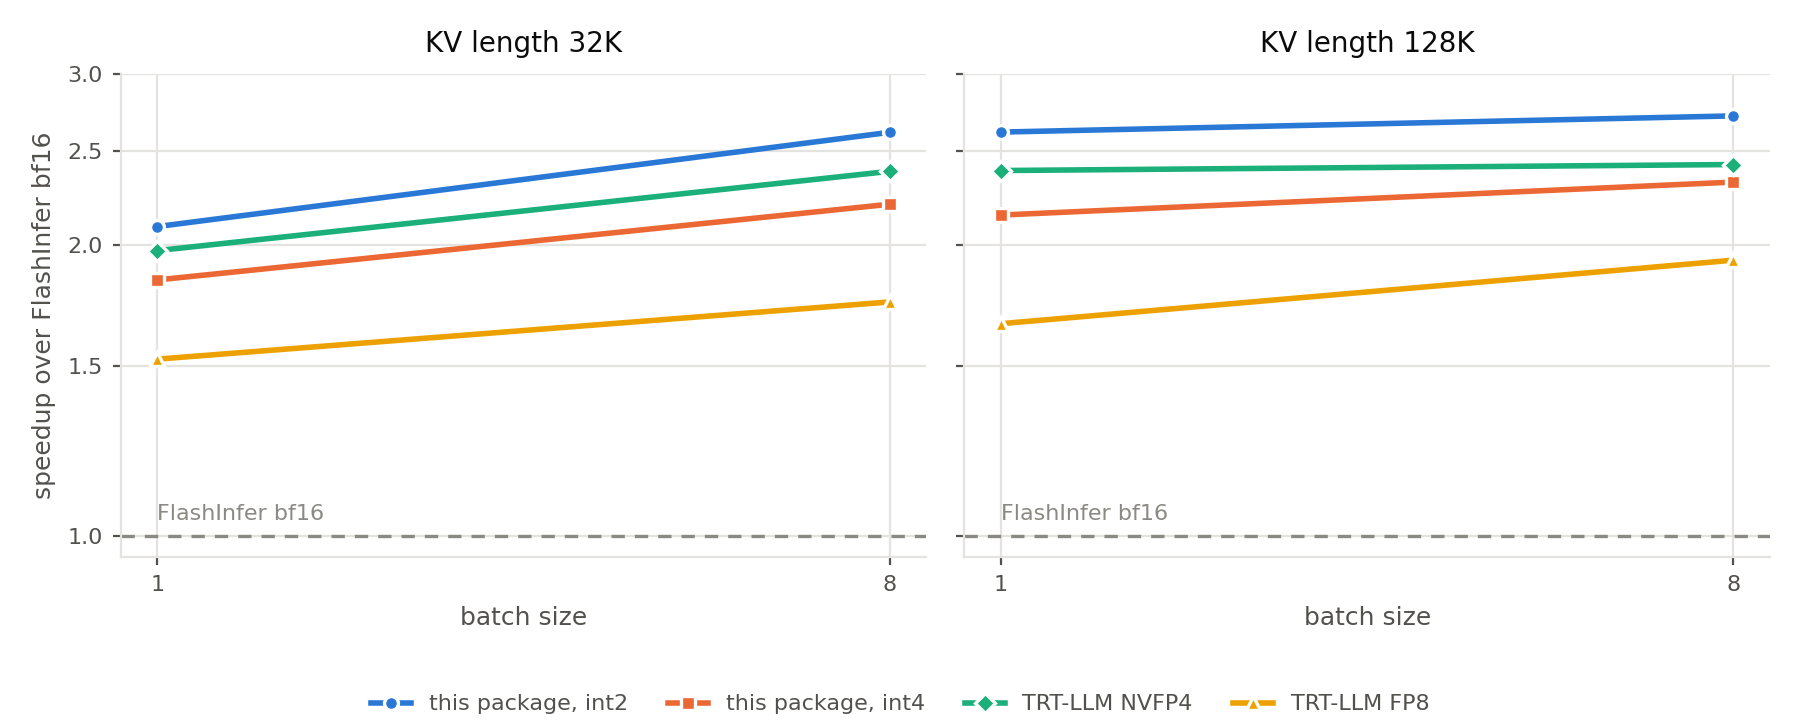
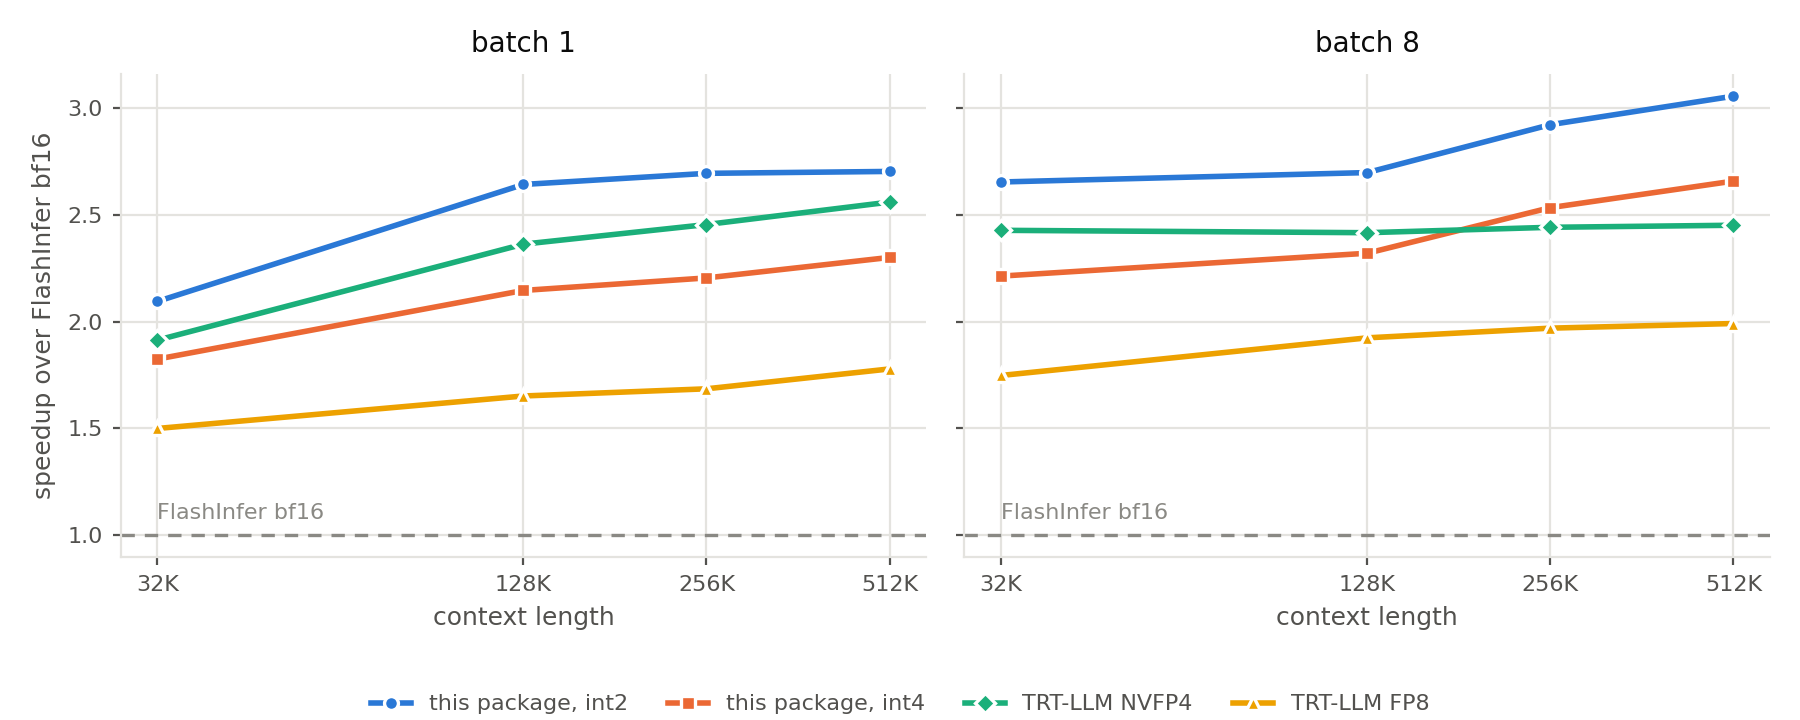
Benchmark at 32K-512K, panel per batch, and a terser README
The grid is batch 1 and 8 at 32K, 128K, 256K and 512K. The figure has one panel
per batch with context on the x axis, plotting speedup over FlashInfer bf16; the
table carries the latencies. The bits-per-value table and the argument around it
are gone: the numbers are the numbers.

pytest now runs the whole suite by default rather than deselecting the device
tests, since the audience for a kernel package has the device.

diff --git a/benchmarks/plot_decode.py b/benchmarks/plot_decode.py
@@ -1,9 +1,9 @@
-"""Render the decode-latency figure from `decode_latency.csv`.
+"""Render the decode-speedup figure from `decode_latency.csv`.
 
-Two panels, one per KV length, with batch on a log axis. The y axis is the
-speedup over FlashInfer bf16 at the same shape, which is bf16's latency divided by
-the kernel's, so the dashed line at 1.00 is bf16 and higher is better. The
-absolute latencies are in the README table.
+Two panels, one per batch size, with context length on a log axis. The y axis is
+the speedup over FlashInfer bf16 at the same shape, which is bf16's latency
+divided by the kernel's, so the dashed line at 1.00 is bf16 and higher is better.
+The latencies themselves are in the README table.
 
 Run from the repository root:
 
@@ -49,33 +49,32 @@ def us(kernel, batch, kv):
 fig, axes = plt.subplots(1, 2, figsize=(9.0, 3.6), sharey=True)
 fig.patch.set_facecolor("#ffffff")
 
-for ax, kv in zip(axes, kv_lens):
+for ax, batch in zip(axes, batches):
     ax.set_facecolor("#ffffff")
     for key, label, color, marker in SERIES:
         xs, ys = [], []
-        for b in batches:
-            base = us(BASE, b, kv)
-            val = us(key, b, kv)
+        for kv in kv_lens:
+            base = us(BASE, batch, kv)
+            val = us(key, batch, kv)
             if base and val:
-                xs.append(b)
+                xs.append(kv)
                 ys.append(base / val)
         ax.plot(xs, ys, color=color, linewidth=2, marker=marker, markersize=5,
                 markeredgecolor="#ffffff", markeredgewidth=1.2, label=label,
                 zorder=3)
 
     ax.axhline(1.0, color=REF, linewidth=1.2, linestyle=(0, (4, 3)), zorder=2)
-    ax.annotate("FlashInfer bf16", xy=(batches[0], 1.0), xytext=(0, 6),
+    ax.annotate("FlashInfer bf16", xy=(kv_lens[0], 1.0), xytext=(0, 6),
                 textcoords="offset points", color=REF, fontsize=8, zorder=4)
 
     ax.set_xscale("log", base=2)
-    ax.set_yscale("log")
-    ax.set_xticks(batches)
-    ax.set_xticklabels([str(b) for b in batches])
+    ax.set_xticks(kv_lens)
+    ax.set_xticklabels([f"{kv // 1024}K" for kv in kv_lens])
     ax.set_yticks([1.0, 1.5, 2.0, 2.5, 3.0])
     ax.set_yticklabels(["1.0", "1.5", "2.0", "2.5", "3.0"])
     ax.minorticks_off()
-    ax.set_xlabel("batch size", color=INK_2, fontsize=9)
-    ax.set_title(f"KV length {kv // 1024}K", color=INK, fontsize=10, pad=8)
+    ax.set_xlabel("context length", color=INK_2, fontsize=9)
+    ax.set_title(f"batch {batch}", color=INK, fontsize=10, pad=8)
     ax.grid(True, which="major", color=GRID, linewidth=0.8, zorder=0)
     for side in ("top", "right"):
         ax.spines[side].set_visible(False)

diff --git a/README.md b/README.md
@@ -150,78 +150,42 @@ same Q dtype.
 
 ## Benchmarks
 
-Decode latency on one NVIDIA B200 at long context, against FlashInfer and
-TensorRT-LLM's `trtllm-gen` decode kernels. The figure plots the speedup over
-FlashInfer bf16 at the same shape, which is bf16's latency divided by the
-kernel's, so the dashed line at 1.00 is bf16 and higher is better. The table
-gives the latency itself, in microseconds.
+Decode latency in microseconds on one NVIDIA B200. The figure plots the speedup
+over FlashInfer bf16 at the same shape, so the dashed line at 1.00 is bf16.
 
-![Decode speedup over FlashInfer bf16, against batch size at KV lengths 32K and 128K](docs/decode-latency.png)
+![Decode speedup over FlashInfer bf16, against context length at batch 1 and 8](docs/decode-latency.png)
 
-| Batch | KV len | int2 | int4 | FlashInfer bf16 | TRT-LLM FP8 | TRT-LLM NVFP4 |
+| Batch | Context | int2 | int4 | FlashInfer bf16 | TRT-LLM FP8 | TRT-LLM NVFP4 |
 |---:|---:|---:|---:|---:|---:|---:|
-| 1 | 32K | **17.0** | 19.3 | 35.5 | 23.3 | 18.0 |
-| 1 | 128K | **37.6** | 45.8 | 98.3 | 59.3 | 41.2 |
-| 8 | 32K | **63.8** | 75.7 | 166.7 | 95.5 | 70.0 |
-| 8 | 128K | **219.4** | 256.8 | 596.1 | 309.2 | 246.3 |
-
-What the columns store per cached value, including the scale and offset:
-
-| | int2 | int4 | NVFP4 | FP8 | bf16 |
-|---|---:|---:|---:|---:|---:|
-| bits per value | 2.5 | 4.5 | 4.5 | 8 | 16 |
-
-Two things follow from that table and are worth stating plainly.
-
-The 2-bit kernel is 2.09 to 2.72 times faster than bf16, which stores 6.4 times
-as many bits per value. Against NVFP4, which stores 1.8 times as many, it is 1.06
-to 1.12 times faster: at these lengths the traffic saving does reach the latency,
-but most of it is still absorbed by dequantization and the on-chip work.
-
-At 4 bits, where this package and NVFP4 store the same number of bits per value,
-TRT-LLM is faster at every shape. The 2-bit setting is where this kernel wins,
-and the gap widens with context length.
+| 1 | 32K | **16.9** | 19.4 | 35.4 | 23.6 | 18.5 |
+| 1 | 128K | **37.2** | 45.8 | 98.3 | 59.5 | 41.6 |
+| 1 | 256K | **63.5** | 77.6 | 171.1 | 101.5 | 69.7 |
+| 1 | 512K | **116.0** | 136.3 | 313.6 | 176.3 | 122.5 |
+| 8 | 32K | **63.3** | 75.9 | 168.0 | 96.1 | 69.2 |
+| 8 | 128K | **220.6** | 256.5 | 595.2 | 309.3 | 246.3 |
+| 8 | 256K | **400.5** | 461.9 | 1170.4 | 594.2 | 479.3 |
+| 8 | 512K | **760.3** | 874.0 | 2323.3 | 1166.7 | 947.7 |
 
 Measurement conditions: one query token per request, 32 query heads over 8 KV
 heads, `head_dim` 128, page size 64, paged cache, fp8 Q for this package and for
-TRT-LLM, bf16 for FlashInfer. All five columns were measured on the same B200
-card on 2026-10-29, in one session, through one timing function. The reported
-number is the CUDA kernel span from CUPTI, over a cold L2, as the median of the
-fully observed iterations. It excludes host dispatch and the paged-attention
-wrapper around the kernel, so it is not an end-to-end serving latency.
+TRT-LLM, bf16 for FlashInfer. All five columns ran on the same B200 card on
+2026-10-29, in one session, through one timing function. The number is the CUDA
+kernel span from CUPTI over a cold L2, the median of the fully observed
+iterations. It excludes host dispatch and the paged-attention wrapper, so it is
+not an end-to-end serving latency.
 
-Which code produced each column:
-
-- **int2 and int4** were measured by driving `PagedDecodeWrapper` from this
-  release. `benchmarks/decode_latency.csv` holds the values and
-  `benchmarks/plot_decode.py` renders the figure above.
-- **FlashInfer and TRT-LLM** were measured by the project's benchmark harness,
-  which is not part of this release. Those three columns cannot be regenerated
-  from this repository.
+The two columns for this package were measured by driving `PagedDecodeWrapper`
+from this release; `benchmarks/decode_latency.csv` holds the values and
+`benchmarks/plot_decode.py` renders the figure. The three competitor columns were
+measured by the project's benchmark harness, which is not part of this release.
 
 ## Testing
 
 ```sh
-pytest -q            # everything that needs no GPU
-pytest -m gpu        # the pool builders, on the hardware their kernel runs on
+pytest -q
 ```
 
-A test module whose name ends in `_cpu` must pass with no GPU and no CUDA
-toolkit. Most of the package is host code, and these tests cover it: the
-planners, the pool builders, the kernel cache, the constructor contract, and the
-static geometry of the kernels, such as shared-memory bank models and fragment
-maps. The whole run takes about ten seconds, and on a GPU host the same command
-also runs the modules that need one.
-
-With a CUDA device and the CuTe DSL installed, the modules that need them run
-instead of skipping. The GPU test builds pools with the builder this package
-ships for the running architecture, runs the decode kernel on them, and scores
-the output against a storage-matched reference, so the pool contract and the
-kernel are one gate.
-
-Both architectures were checked that way: an H100 for `pool_sm90`, a B200 for
-`pool`. The worst per-(batch, head) relative L2 is under 3e-3 at int2 and int4
-on both.
+Modules that need a device skip when there is none.
 
 ## Limitations
 

diff --git a/CONTRIBUTING.md b/CONTRIBUTING.md
@@ -18,17 +18,20 @@ Blackwell requires `cu13`.
 ## Running the tests
 
 ```sh
-pytest -q                    # CPU suite: no GPU and no nvidia-cutlass-dsl needed
-pytest -q -m gpu             # GPU tests, on an SM90 or SM100 device
+pytest -q
 ```
 
+Most modules need no device and run anywhere; the ones that do skip when there is
+none. `pytest -m gpu` selects only the device tests.
+
 The `_cpu` suffix on a test module means it must pass with no GPU. A module
-without the suffix needs hardware.
+without the suffix needs hardware, and is where a change to either kernel or to a
+pool builder is gated.
 
 ## What a change must satisfy
 
-- **CPU suite green.** Every change, including documentation-only ones, runs the
-  CPU suite.
+- **The suite is green.** Every change, including documentation-only ones, runs
+  `pytest -q` on a machine with a supported GPU.
 - **Kernel changes are measured.** A change to either decode kernel needs a
   timing comparison on the affected architecture, and a change to a split
   planner needs its self-test re-pinned rather than loosened.
